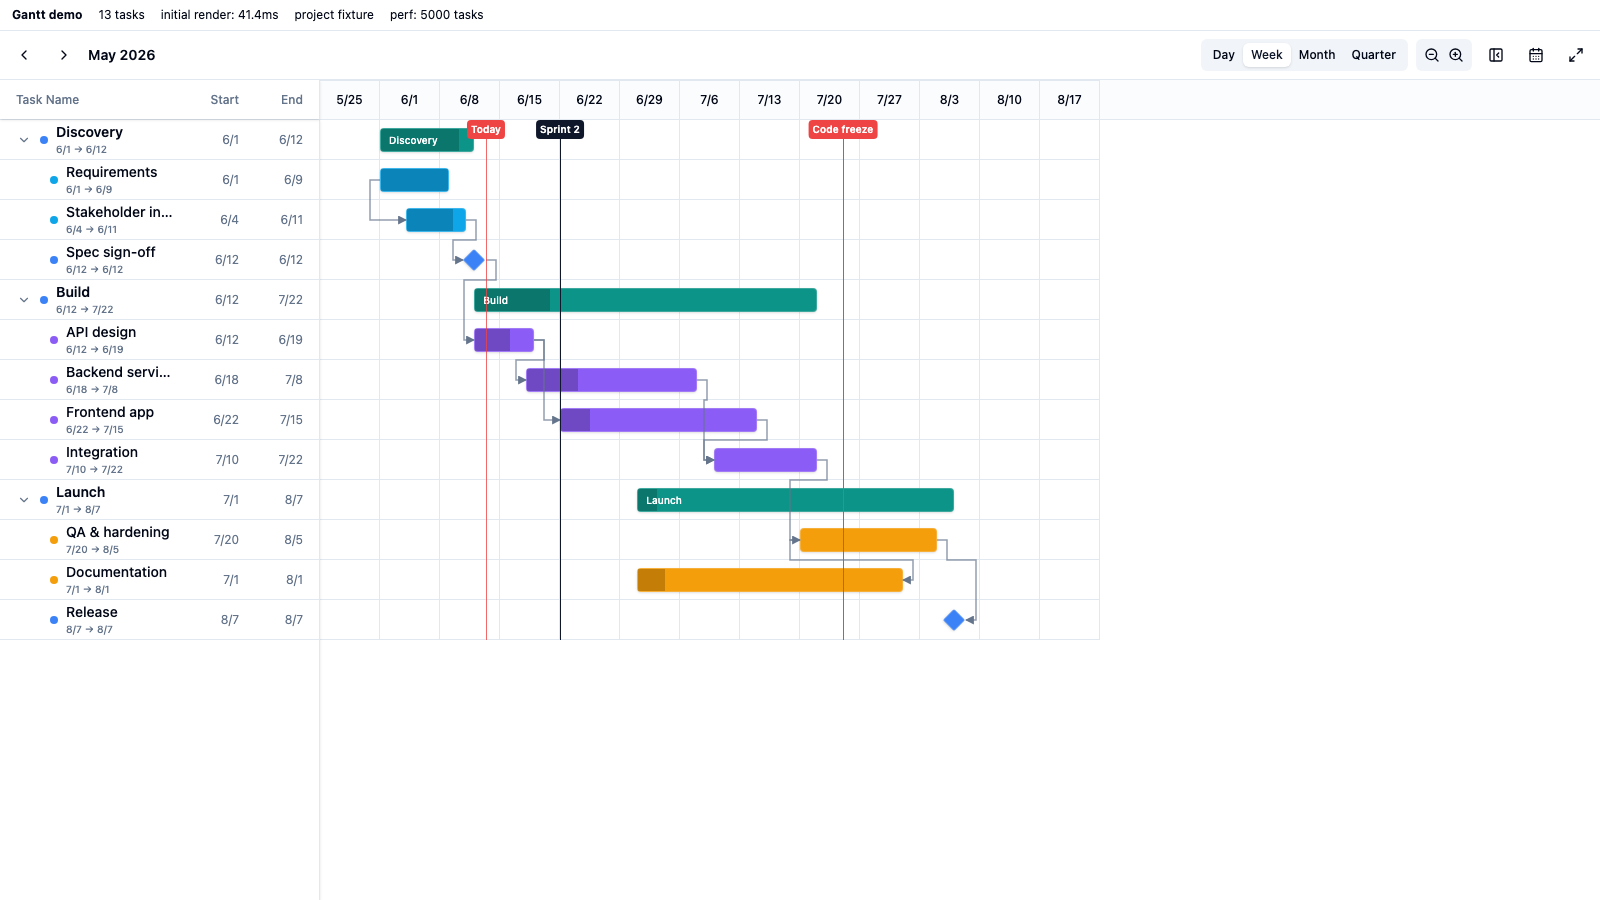
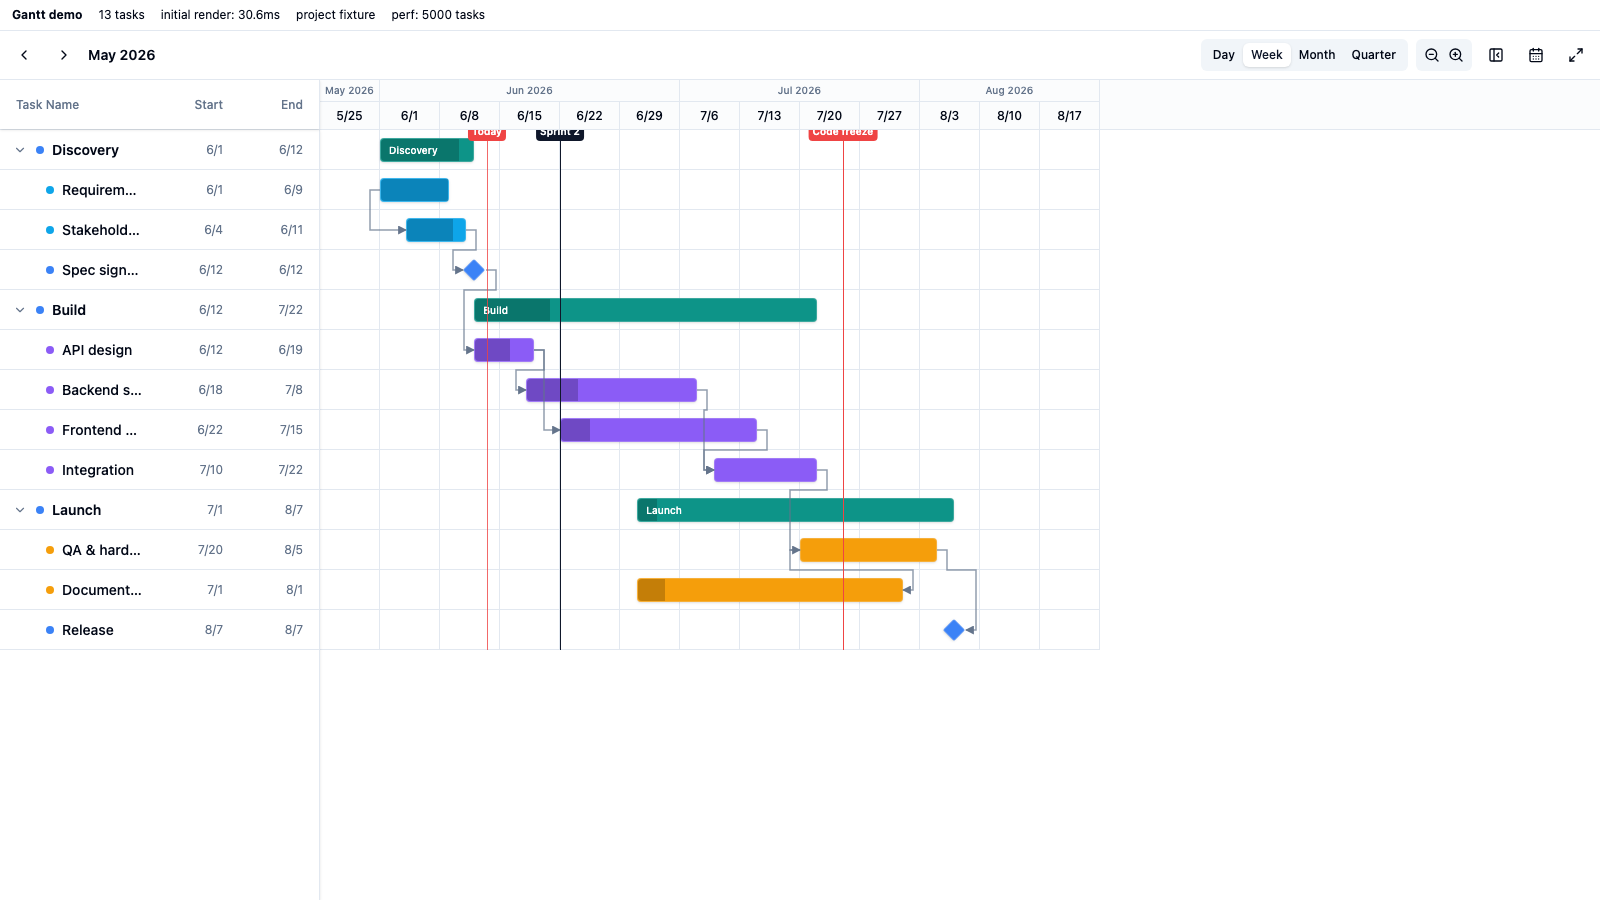
fix(gantt): progress % no longer occluded; replace 6 missing prebuilt-CSS utilities with inline styles
The connector dot used `-right-2`, which the prebuilt components stylesheet
never emits, so it collapsed to its auto top-left position and covered the
progress label at the bar's start. Pin it with inline `right:-8px` and give
`cursor:crosshair` inline too.

Audited every GanttView class token against the prebuilt CSS and inlined the
other genuinely-absent utilities: resize-handle `w-1.5`/`cursor-ew-resize`,
progress-fill `rounded-l-sm`, grid `z-0`, and the sm: responsive variants
(`sm:h-[50px]`, `sm:w-20`, `sm:hidden`, `-ml-1`, `h-[45%]`,
`touch-manipulation`) via a scoped media-query style block.

diff --git a/packages/plugin-gantt/src/GanttView.tsx b/packages/plugin-gantt/src/GanttView.tsx
@@ -1081,11 +1081,17 @@ export function GanttView({
 
   return (
     <div ref={containerRef} className={cn("flex flex-col h-full bg-background overflow-hidden min-w-0", className)}>
-      {/* Hover rules the prebuilt components CSS can't provide (alpha
-          utilities like hover:bg-white/40 are never emitted there). */}
+      {/* Hover and responsive rules the prebuilt components CSS can't provide
+          (alpha utilities like hover:bg-white/40 and several sm: variants are
+          never emitted there). */}
       <style>{`
         .gantt-resize-handle:hover { background-color: rgba(255, 255, 255, 0.4); }
         .gantt-bar-hover:hover { filter: brightness(1.1); }
+        @media (min-width: 640px) {
+          .gantt-sm-h50 { height: 50px; }
+          .gantt-sm-w20 { width: 80px; }
+          .gantt-sm-hidden { display: none; }
+        }
       `}</style>
       {/* Toolbar */}
       <div className="flex flex-col sm:flex-row items-start sm:items-center justify-between gap-2 p-2 border-b bg-card">
@@ -1211,7 +1217,7 @@ export function GanttView({
         data-testid="gantt-body"
       >
         {/* Headers Row */}
-        <div className="flex border-b bg-muted/30 shrink-0 h-10 sm:h-[50px]">
+        <div className="flex border-b bg-muted/30 shrink-0 h-10 gantt-sm-h50">
           {/* List Header */}
           <div 
             className="flex items-center font-medium text-xs text-muted-foreground px-2 sm:px-4 border-r bg-card z-20 shadow-sm"
@@ -1220,8 +1226,8 @@ export function GanttView({
             <div className="flex-1 truncate">{t('gantt.column.taskName')}</div>
             {showSEColumns && (
               <>
-                <div className="w-16 sm:w-20 text-right">{t('gantt.column.start')}</div>
-                <div className="w-16 sm:w-20 text-right">{t('gantt.column.end')}</div>
+                <div className="w-16 gantt-sm-w20 text-right">{t('gantt.column.start')}</div>
+                <div className="w-16 gantt-sm-w20 text-right">{t('gantt.column.end')}</div>
               </>
             )}
           </div>
@@ -1229,7 +1235,7 @@ export function GanttView({
           {/* Timeline Header — two scale rows: group (month/year) over units */}
           <div className="flex-1 overflow-hidden" ref={headerRef}>
             <div className="flex flex-col h-full" style={{ width: totalWidth }}>
-              <div className="relative h-[45%] border-b" data-testid="gantt-header-groups">
+              <div className="relative border-b" style={{ height: '45%' }} data-testid="gantt-header-groups">
                 {headerGroups.slice(groupWindow.start, groupWindow.end).map((group) => (
                   <div
                     key={group.key}
@@ -1286,10 +1292,10 @@ export function GanttView({
               <div
                 key={task.id}
                 className={cn(
-                  "group/task-row flex items-center border-b px-2 sm:px-4 hover:bg-accent/50 cursor-pointer transition-colors touch-manipulation",
+                  "group/task-row flex items-center border-b px-2 sm:px-4 hover:bg-accent/50 cursor-pointer transition-colors",
                   isSelected && "bg-accent/50"
                 )}
-                style={{ height: rowHeight }}
+                style={{ height: rowHeight, touchAction: 'manipulation' }}
                 role="treeitem"
                 aria-level={row.depth + 1}
                 aria-selected={isSelected}
@@ -1338,7 +1344,8 @@ export function GanttView({
                   {row.hasChildren ? (
                     <button
                       type="button"
-                      className="h-4 w-4 -ml-1 shrink-0 flex items-center justify-center text-muted-foreground hover:text-foreground"
+                      className="h-4 w-4 shrink-0 flex items-center justify-center text-muted-foreground hover:text-foreground"
+                      style={{ marginLeft: -4 }}
                       onClick={(e) => { e.stopPropagation(); toggleCollapsed(task.id); }}
                       aria-expanded={!isCollapsed}
                       aria-label={isCollapsed ? t('gantt.row.expand') : t('gantt.row.collapse')}
@@ -1349,7 +1356,7 @@ export function GanttView({
                         : <ChevronDown className="h-3.5 w-3.5" />}
                     </button>
                   ) : (
-                    <span className="w-3 -ml-1 shrink-0" aria-hidden="true" />
+                    <span className="w-3 shrink-0" style={{ marginLeft: -4 }} aria-hidden="true" />
                   )}
                   <div
                     className="w-2 h-2 rounded-full shrink-0"
@@ -1379,13 +1386,13 @@ export function GanttView({
                   ) : (
                     <span className="flex flex-col min-w-0">
                       <span className={cn("truncate", row.isSummary && "font-semibold")}>{task.title}</span>
-                      <span className="text-[10px] text-muted-foreground sm:hidden">
+                      <span className="text-[10px] text-muted-foreground gantt-sm-hidden">
                         {row.start.toLocaleDateString(undefined, { month: 'numeric', day: 'numeric' })} → {row.end.toLocaleDateString(undefined, { month: 'numeric', day: 'numeric' })}
                       </span>
                     </span>
                   )}
                 </div>
-                <div className="w-16 sm:w-20 text-right text-xs text-muted-foreground hidden sm:block" hidden={!showSEColumns} style={!showSEColumns ? { display: 'none' } : undefined}>
+                <div className="w-16 gantt-sm-w20 text-right text-xs text-muted-foreground hidden sm:block" hidden={!showSEColumns} style={!showSEColumns ? { display: 'none' } : undefined}>
                   {isEditing ? (
                     <input
                       type="date"
@@ -1398,7 +1405,7 @@ export function GanttView({
                     row.start.toLocaleDateString(undefined, { month: 'numeric', day: 'numeric' })
                   )}
                 </div>
-                <div className="w-16 sm:w-20 text-right text-xs text-muted-foreground hidden sm:block" hidden={!showSEColumns} style={!showSEColumns ? { display: 'none' } : undefined}>
+                <div className="w-16 gantt-sm-w20 text-right text-xs text-muted-foreground hidden sm:block" hidden={!showSEColumns} style={!showSEColumns ? { display: 'none' } : undefined}>
                   {isEditing ? (
                     <input
                       type="date"
@@ -1445,8 +1452,8 @@ export function GanttView({
                   aria-label={t('gantt.toolbar.today')}
                 >
                   <div
-                    className="absolute -top-2 -translate-x-1/2 left-0 text-[10px] font-semibold text-white rounded-sm px-1 py-0.5 whitespace-nowrap"
-                    style={{ backgroundColor: '#ef4444' }}
+                    className="absolute -translate-x-1/2 left-0 text-[10px] font-semibold text-white rounded-sm px-1 py-0.5 whitespace-nowrap"
+                    style={{ top: -8, backgroundColor: '#ef4444' }}
                   >
                     {t('gantt.toolbar.today')}
                   </div>
@@ -1463,8 +1470,8 @@ export function GanttView({
                 >
                   {m.label && (
                     <div
-                      className="absolute -top-2 -translate-x-1/2 left-0 text-[10px] font-semibold text-white rounded-sm px-1 py-0.5 whitespace-nowrap"
-                      style={{ backgroundColor: m.color }}
+                      className="absolute -translate-x-1/2 left-0 text-[10px] font-semibold text-white rounded-sm px-1 py-0.5 whitespace-nowrap"
+                      style={{ top: -8, backgroundColor: m.color }}
                     >
                       {m.label}
                     </div>
@@ -1474,7 +1481,7 @@ export function GanttView({
               {/* Timeline Task Rows */}
               <div className="relative" ref={contentRef}>
                 {/* Background Grid — windowed to the visible columns */}
-                <div className="absolute inset-0 pointer-events-none z-0">
+                <div className="absolute inset-0 pointer-events-none" style={{ zIndex: 0 }}>
                    {timeColumns.slice(colWindow.start, colWindow.end).map((col, i) => {
                     const idx = colWindow.start + i;
                     return (
@@ -1589,8 +1596,8 @@ export function GanttView({
                         >
                           {/* Rollup progress fill */}
                           <div
-                            className="absolute left-0 top-0 bottom-0 rounded-l-sm pointer-events-none"
-                            style={{ width: `${Math.round(row.progress)}%`, backgroundColor: 'rgba(0, 0, 0, 0.2)' }}
+                            className="absolute left-0 top-0 bottom-0 pointer-events-none"
+                            style={{ width: `${Math.round(row.progress)}%`, backgroundColor: 'rgba(0, 0, 0, 0.2)', borderTopLeftRadius: 'var(--radius-sm)', borderBottomLeftRadius: 'var(--radius-sm)' }}
                           />
                           <span className="relative text-[10px] text-white font-medium truncate pointer-events-none">
                             {task.title}
@@ -1713,7 +1720,8 @@ export function GanttView({
                         {canDrag && liveStyle.width >= 14 && (
                           <>
                             <div
-                              className="gantt-resize-handle absolute left-0 top-0 bottom-0 w-1.5 cursor-ew-resize"
+                              className="gantt-resize-handle absolute left-0 top-0 bottom-0"
+                              style={{ width: 6, cursor: 'ew-resize' }}
                               data-testid={`gantt-task-resize-left-${task.id}`}
                               onPointerDown={(e) => {
                                 if (e.button !== 0) return;
@@ -1722,7 +1730,8 @@ export function GanttView({
                               onClick={(e) => e.stopPropagation()}
                             />
                             <div
-                              className="gantt-resize-handle absolute right-0 top-0 bottom-0 w-1.5 cursor-ew-resize"
+                              className="gantt-resize-handle absolute right-0 top-0 bottom-0"
+                              style={{ width: 6, cursor: 'ew-resize' }}
                               data-testid={`gantt-task-resize-right-${task.id}`}
                               onPointerDown={(e) => {
                                 if (e.button !== 0) return;
@@ -1738,8 +1747,8 @@ export function GanttView({
                             prebuilt components CSS. */}
                         {liveProgress > 0 && (
                           <div
-                            className="absolute left-0 top-0 bottom-0 rounded-l-sm pointer-events-none"
-                            style={{ width: `${liveProgress}%`, backgroundColor: 'rgba(0, 0, 0, 0.2)' }}
+                            className="absolute left-0 top-0 bottom-0 pointer-events-none"
+                            style={{ width: `${liveProgress}%`, backgroundColor: 'rgba(0, 0, 0, 0.2)', borderTopLeftRadius: 'var(--radius-sm)', borderBottomLeftRadius: 'var(--radius-sm)' }}
                           />
                         )}
 
@@ -1781,12 +1790,12 @@ export function GanttView({
                         {onDependencyCreate && (
                           <div
                             className={cn(
-                              "absolute -right-2 top-1/2 -translate-y-1/2 h-3 w-3 rounded-full bg-background cursor-crosshair z-10",
+                              "absolute top-1/2 -translate-y-1/2 h-3 w-3 rounded-full bg-background z-10",
                               linkDrag && String(linkDrag.sourceId) === String(task.id)
                                 ? "opacity-100"
                                 : "opacity-0 group-hover:opacity-100 transition-opacity"
                             )}
-                            style={{ border: '2px solid hsl(var(--primary))' }}
+                            style={{ right: -8, cursor: 'crosshair', border: '2px solid hsl(var(--primary))' }}
                             data-testid={`gantt-link-dot-${task.id}`}
                             onPointerDown={(e) => {
                               if (e.button !== 0) return;
